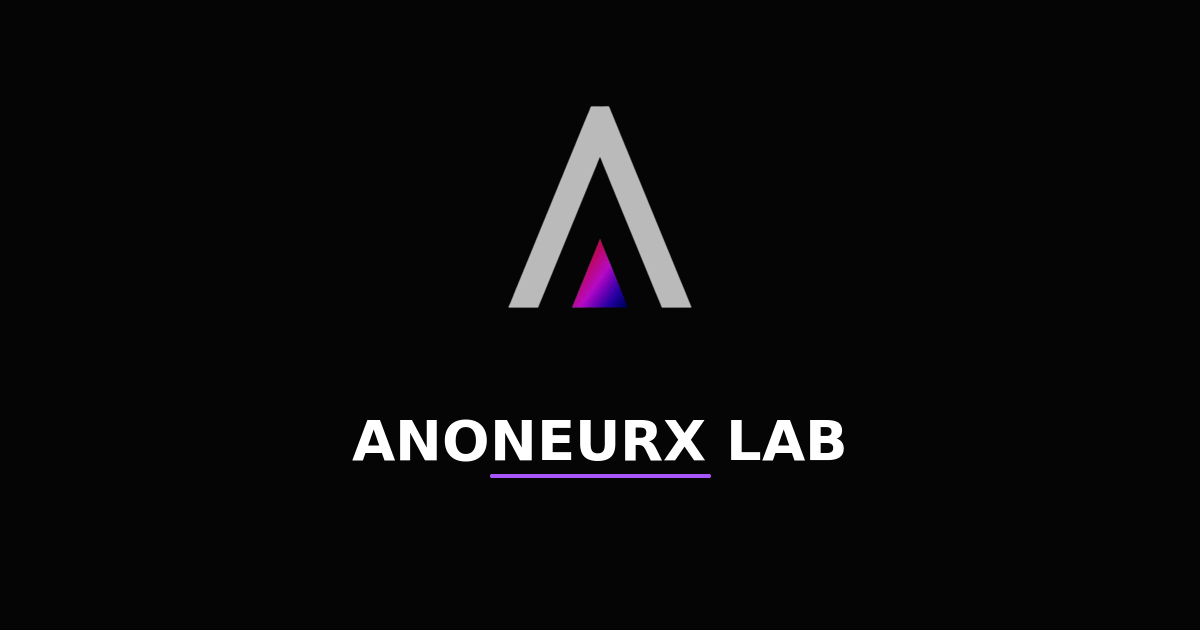
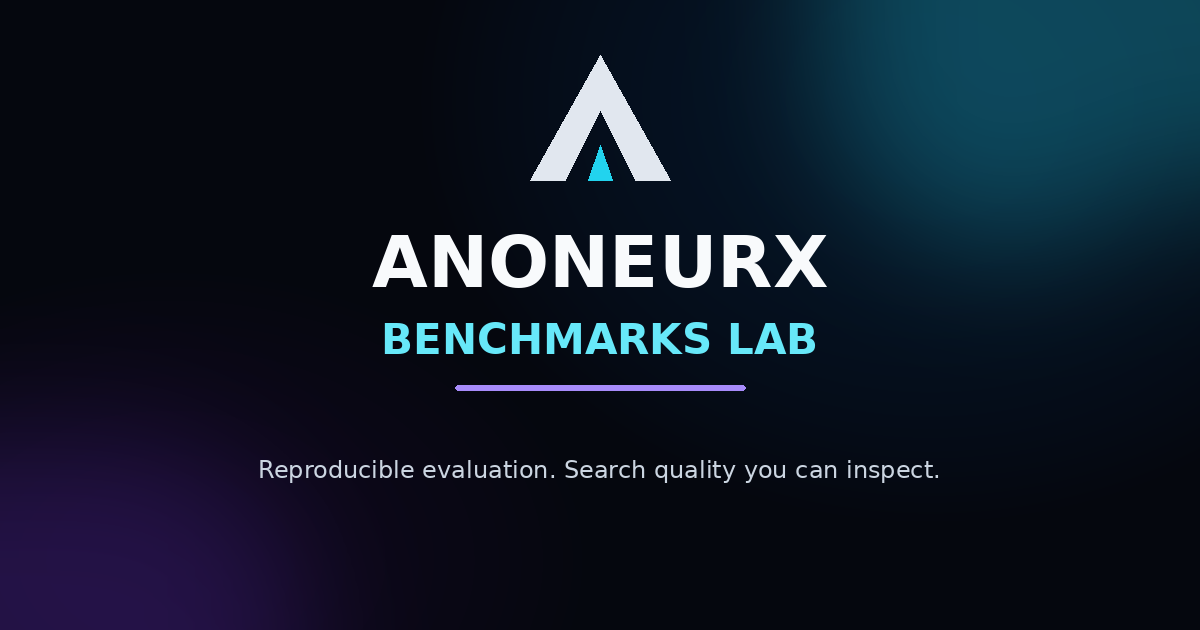
Add benchmark lab social image
Use the home OG image as the default for routes without a dedicated preview.\n\nCo-authored-by: Copilot <223556219+Copilot@users.noreply.github.com>

diff --git a/src/components/RouteSEO.tsx b/src/components/RouteSEO.tsx
@@ -266,8 +266,8 @@ const map: Record<string, Entry> = {
   "/docs/blackwall": { title: "Black Wall OS Documentation", description: "Black Wall OS documentation — installation, syscall bindings, architecture and the enclave security model." },
   "/docs/nexora": { title: "Nexora Documentation", description: "Nexora browser documentation — configuration, sync, extensions and network privacy controls." },
   "/docs/atlas": { title: "ATLAS Documentation", description: "ATLAS compiler and GPU renderer documentation — toolchain setup, language reference and backend notes." },
-  "/benchmark": { title: "Benchmarks — Anoneurx", description: "Reproducible benchmarks for Anoneurx systems, including LYNX search quality, latency, indexing and crawler performance." },
-  "/benchmark/lynx": { title: "LYNX Benchmarks — Anoneurx", description: "Standardized benchmarks for LYNX search quality, API latency, index building, crawler throughput and hardware baselines." },
+  "/benchmark": { title: "Benchmarks — Anoneurx", description: "Reproducible benchmarks for Anoneurx systems, including LYNX search quality, latency, indexing and crawler performance.", image: "/og-images/og-image.png" },
+  "/benchmark/lynx": { title: "LYNX Benchmarks — Anoneurx", description: "Standardized benchmarks for LYNX search quality, API latency, index building, crawler throughput and hardware baselines.", image: "/og-images/og-image.png" },
   "/research": {
     title: "Anoneurx Research",
     description: "Applied research from Anoneurx across AI, systems, distributed compute and security.",

diff --git a/src/components/SEO.tsx b/src/components/SEO.tsx
@@ -7,8 +7,8 @@ const SITE = "https://anoneurx.com";
 const BRAND = "ANONEURX";
 
 /** 1200x630 social card used whenever a page does not supply its own. */
-const DEFAULT_OG_IMAGE = "/og-images/og-image.png";
-const LAB_OG_IMAGE = "/og-images/og-image.png";
+const DEFAULT_OG_IMAGE = "/og-images/og-home.png";
+const LAB_OG_IMAGE = "/og-images/og-lab.png";
 
 interface SEOProps {
   /** Page label, e.g. "LYNX". The section prefix is added automatically. */
